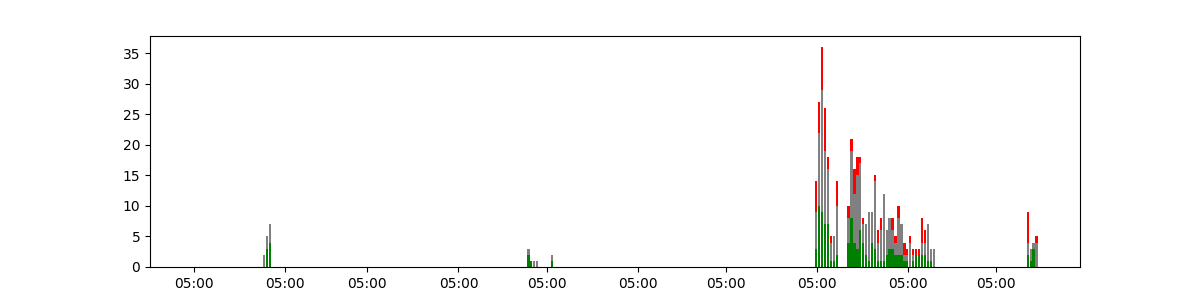
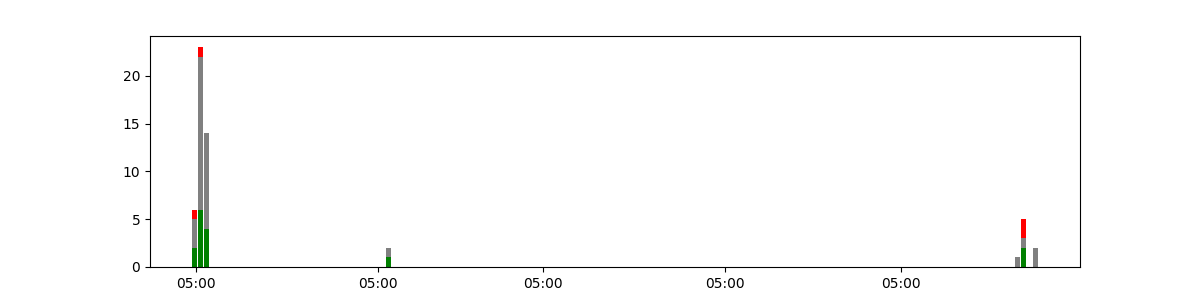
serialized utility functions

diff --git a/startBackend.py b/startBackend.py
@@ -1,0 +1,67 @@
+#Main script to start backend timed tasks
+
+
+
+#get settings
+import os
+os.environ.setdefault('DJANGO_SETTINGS_MODULE', 'flail.settings')
+import django
+django.setup()
+
+import fetch.reddit as reddit
+import analyze.sentiment as sentiment
+from flail.settings import BASE_DIR
+
+import praw
+
+import time
+
+TICKERS = None
+
+
+def main():
+
+
+	#make sure we have secrets
+	reddit.load_secrets()
+	#load the ticker list in
+	global TICKERS 
+	TICKERS = reddit.load_tickers(os.path.join(BASE_DIR, 'tickerlist.json'))
+
+	#create client
+	redditClient = praw.Reddit(
+		client_id=os.environ["REDDIT_ID"],
+		client_secret=os.environ["REDDIT_KEY"],
+		user_agent=os.environ["REDDIT_AGENT"]
+		)
+
+
+	startTime = time.time()
+	#makes it so it generates a graph right when you start for convenience
+	lastGraph = startTime - 600
+	while(True):
+		loopTime = time.time()
+		
+		recent_wsb_comments, recent_wsb_submissions = reddit.fetch_recent("wallstreetbets", redditClient)
+		fetch_time = time.time()
+		print("Fetched "+repr(recent_wsb_comments) +" new comments and "+repr(recent_wsb_submissions)+" new submissions in "+repr(round(fetch_time-loopTime, 2))+" seconds")
+
+		num_in_queue = sentiment.analyze_queue()
+		print("Analyzed "+repr(num_in_queue)+" new relevant entries in "+repr(round(time.time()-fetch_time, 2))+" seconds")
+
+		#every 10 mins prepare graphs and update longer term diagnostic
+		#info like volume of relevant 
+		if loopTime - lastGraph >= 600:
+			for company, data in TICKERS.items():
+				sentiment.prepare_sentiment_graph(data)
+
+			lastGraph = time.time()
+			print("Produced new graphs")
+
+		nowTime = time.time() - loopTime
+		if (15.0 - nowTime) > 0:
+			time.sleep(15.0 - nowTime)
+
+
+if __name__ == '__main__':
+	main()

diff --git a/fetch/reddit.py b/fetch/reddit.py
@@ -16,7 +16,7 @@ TICKERS = None
 
 #when true, we will use the ticker list file and only store relevant comments
 #if false, ALL comments are stored
-FILTER_TICKER = True
+FILTER_TICKER = False
 
 #fetches recent comments from the specified subreddit
 #takes a subreddit name and optionally a client instance
@@ -32,7 +32,7 @@ def fetch_recent(subreddit, client=None):
 	#get too many repeated, but also should always be higher so we never miss a comment
 	#either way, database insertion method should check if the comment exists in our records and do nothing if so
 	num_new_comments = 0
-	for comment in client.subreddit(subreddit).comments(limit=100):
+	for comment in client.subreddit(subreddit).comments(limit=50):
 		num_new_comments += add_new_comment(comment)
 
 	num_new_submissions = 0
@@ -79,6 +79,7 @@ def add_new_comment(comment):
 					source_comment = newComment
 					)
 		return 1
+	#if id already exists we've already seen this, dont count as new
 	except IntegrityError as e:
 		return 0
 
@@ -145,6 +146,8 @@ def load_tickers(filepath=None):
 			#defaults = {"keywords":data["keywords"]}
 			)
 
+	global TICKERS 
+	TICKERS = tickers
 	return tickers
 
 #checks if the post contains any listed keywords

diff --git a/flail/wsgi.py b/flail/wsgi.py
@@ -24,11 +24,6 @@ os.environ.setdefault('DJANGO_SETTINGS_MODULE', 'flail.settings')
 
 def fetch_thread():
 	reddit.central_reddit_fetch()
-	#CAUTION: PRIMITIVE THREADING SOLUTION
-	#starts a thread when the 
-	# t = threading.Thread(target=reddit.central_reddit_fetch())
-	# t.setDaemon(True)
-	# t.start()
 
 def analyze_queue_thread():
 	sentiment.central_queue_analyze()
@@ -42,14 +37,15 @@ def prepare_graphs_thread():
 #maybe also do a stress test/consistency check to make sure no indeterminacies?
 
 
-db.connections.close_all()
+#db.connections.close_all()
 
-databaseLock = Lock()
-pFetch = Process(target=fetch_thread)
-pAnalyze = Process(target=analyze_queue_thread)
-pGraph = Process(target=prepare_graphs_thread)
 
-pFetch.start()
-pAnalyze.start() 
-pGraph.start()
+# databaseLock = Lock()
+# pFetch = Process(target=fetch_thread)
+# pAnalyze = Process(target=analyze_queue_thread)
+# pGraph = Process(target=prepare_graphs_thread)
+
+# pFetch.start()
+# pAnalyze.start() 
+# pGraph.start()
 application = get_wsgi_application()

diff --git a/analyze/sentiment.py b/analyze/sentiment.py
@@ -75,10 +75,10 @@ def analyze_queue():
 	return num_new
 
 #for specified ticker object, get relevant sentiment ratings from 
-#last 24 hour period and put on a graph gapped into 5 min segments
-def prepare_sentiment_graph(ticker):
+#last 24 hour period and put on a graph gapped into 10 min segments
+def prepare_sentiment_graph(ticker, time_increment=10):
 	delta = timedelta(days=1)
-	x_time_segment = timedelta(minutes=5)
+	x_time_segment = timedelta(minutes=time_increment)
 	#make_aware is djangos UTC conversion
 	now_time = make_aware(datetime.now())
 
